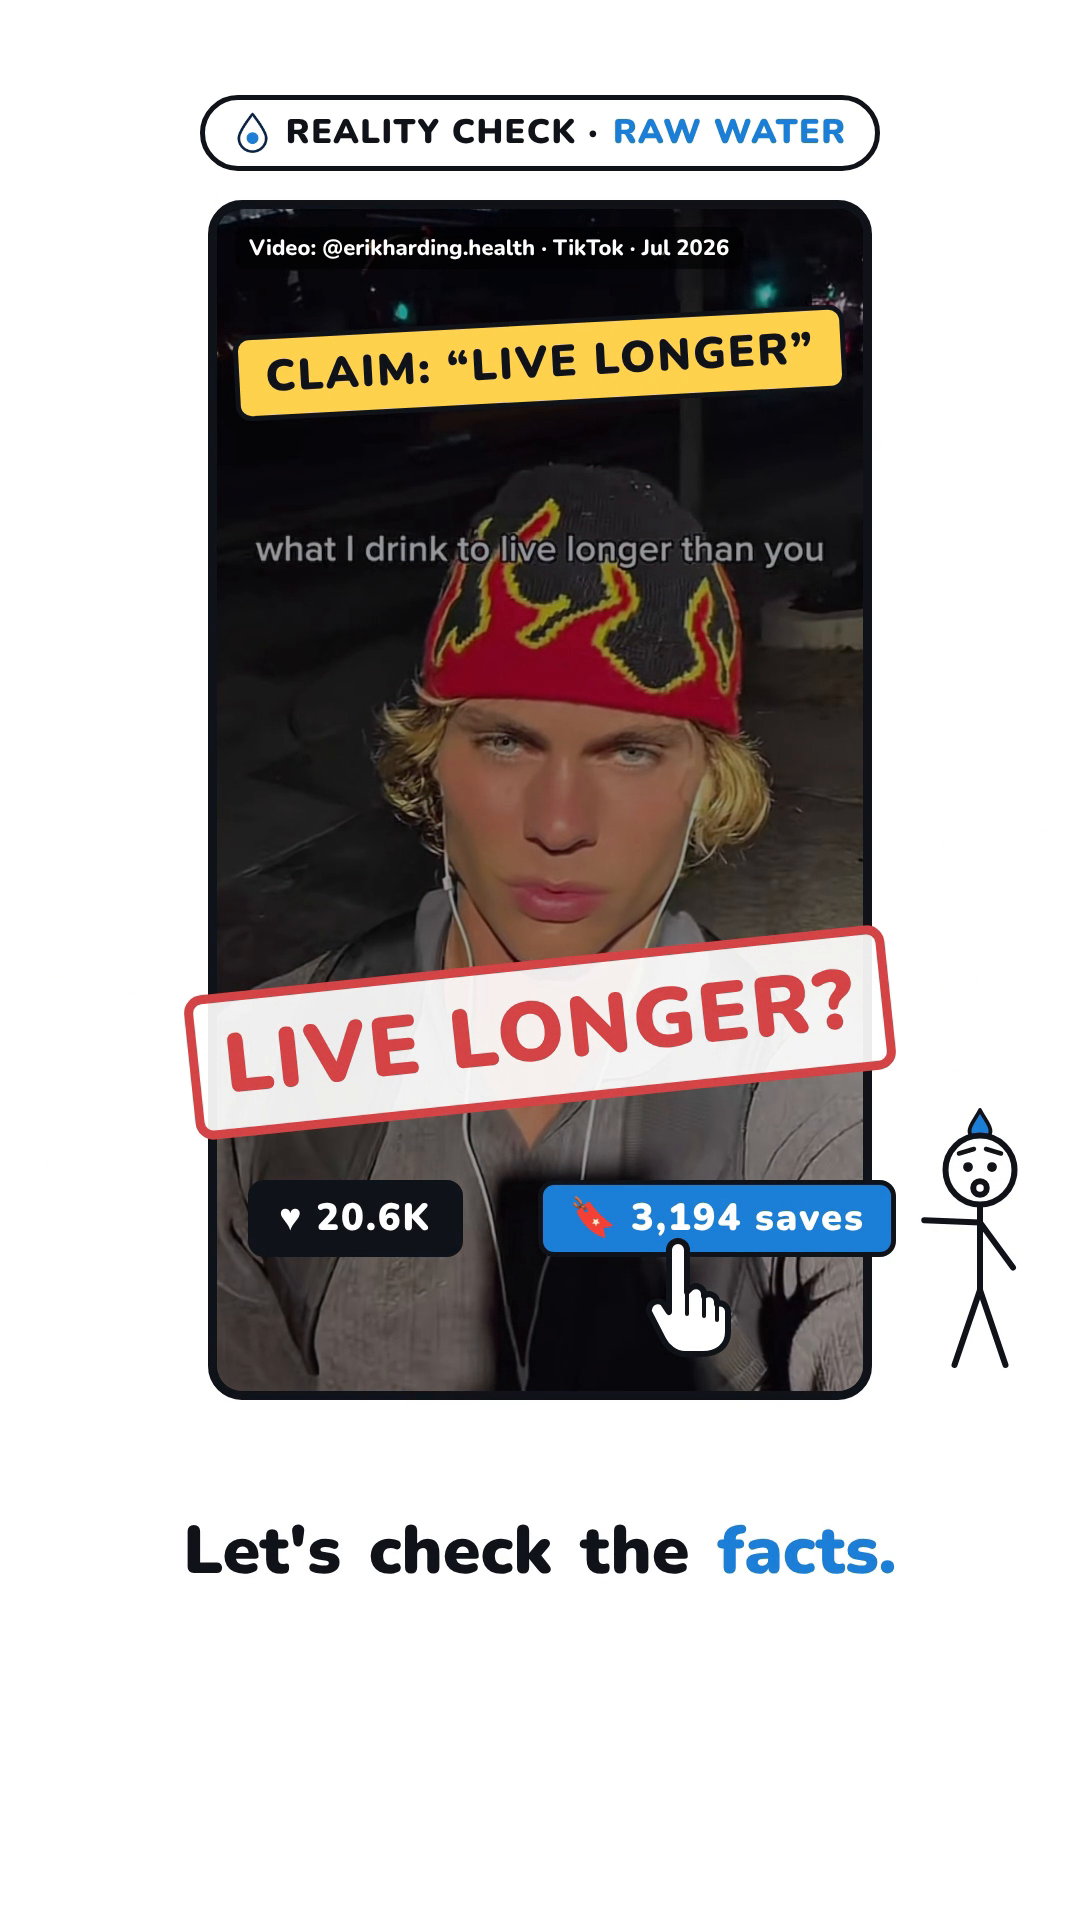
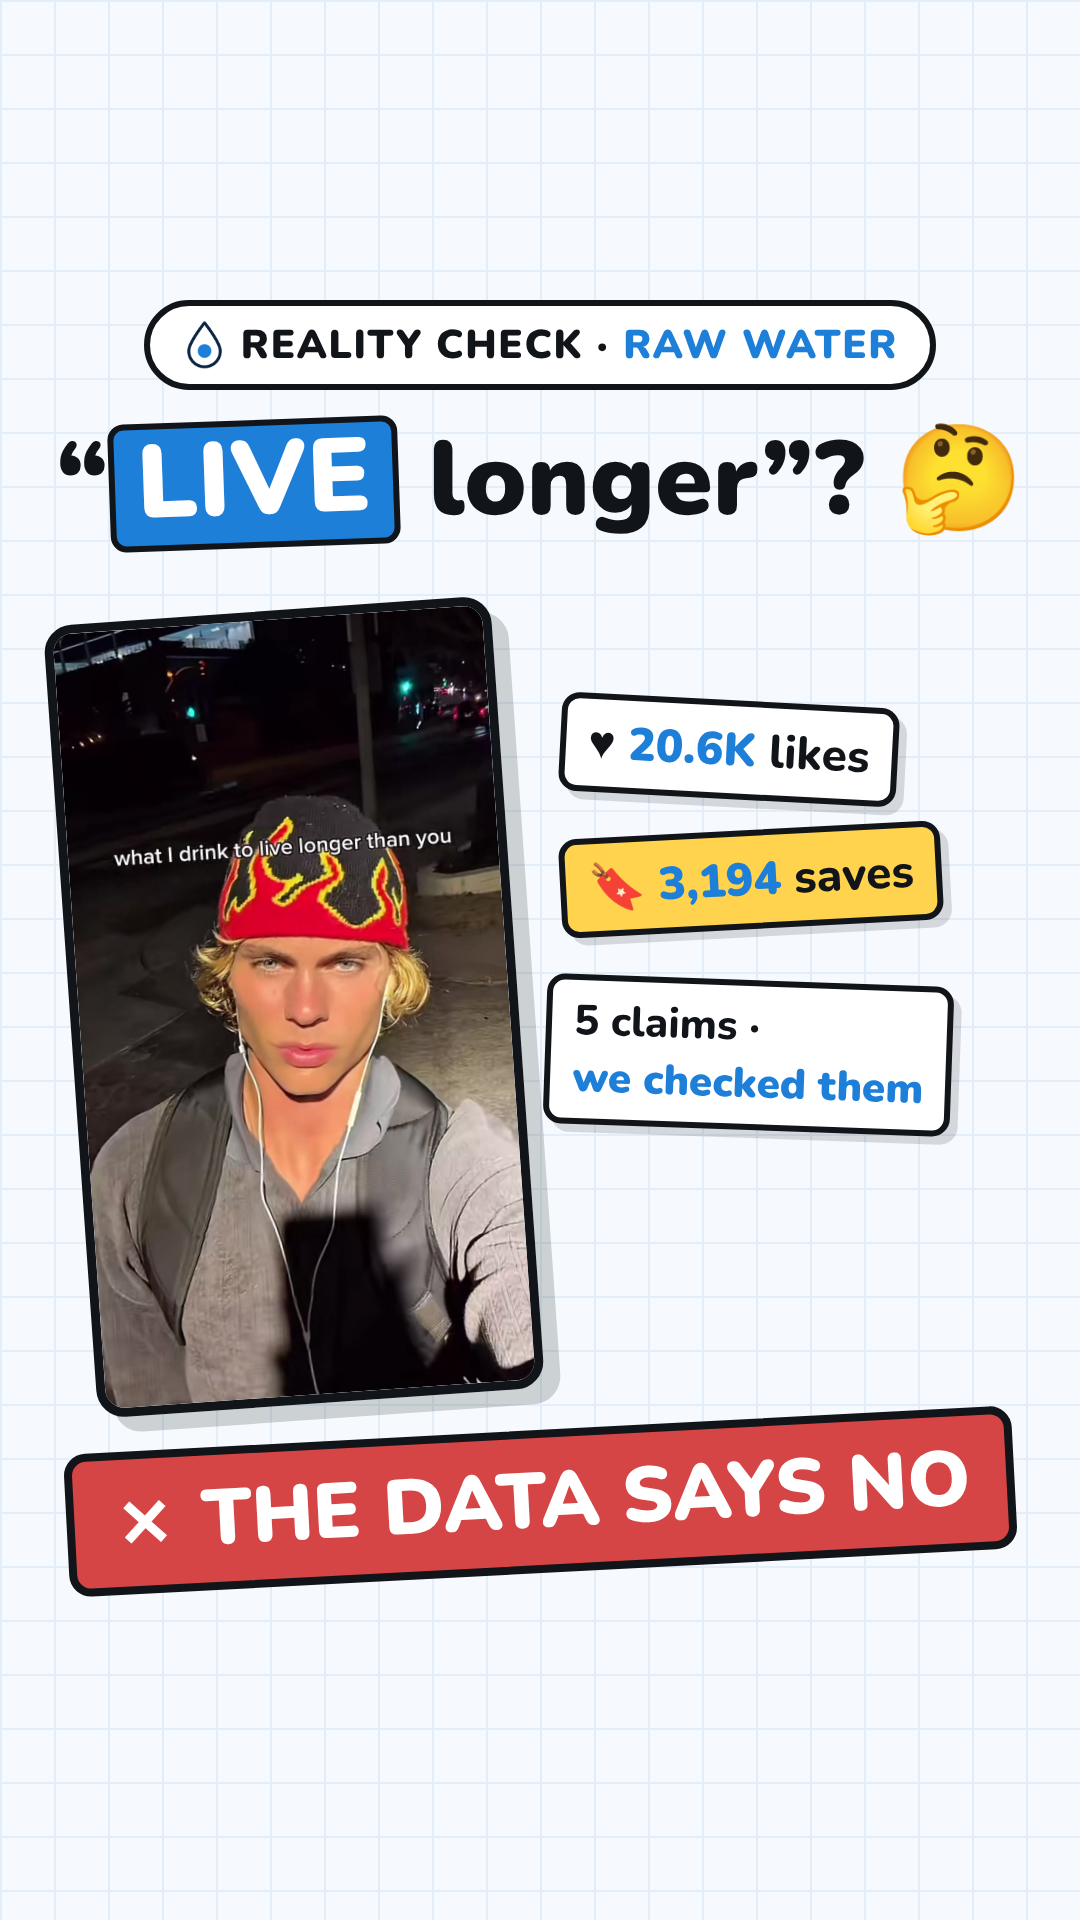
Reality Check raw water: new cover in the dynamic style; update caption notes
Claude-Session: https://claude.ai/code/session_01C2WTzcUrsZUo8kgaFScFB6

diff --git a/instagram/reality-check/texto-raw-water.md b/instagram/reality-check/texto-raw-water.md
@@ -1,7 +1,7 @@
 # Reality Check · Raw Water
 
-- **Vídeo:** `AquaCore_RealityCheck_RawWater_9x16.mp4` (46,9 s)
-- **Portada:** `AquaCore_RealityCheck_RawWater_portada.png` (fotograma del segundo 6: "LIVE LONGER?" con 20,6 K likes y 3.194 guardados)
+- **Vídeo:** `AquaCore_RealityCheck_RawWater_v3_9x16.mp4` (47,2 s, versión dinámica con efectos de sonido)
+- **Portada:** `AquaCore_RealityCheck_RawWater_portada.png` ("“LIVE longer”? 🤔", su vídeo en tarjeta, 20,6 K likes, 3.194 guardados y "✗ THE DATA SAYS NO")
 - **Vídeo original:** @erikharding.health, TikTok, 11 jul 2026 (clip de 13 s, sin su audio)
 
 ## Instagram
